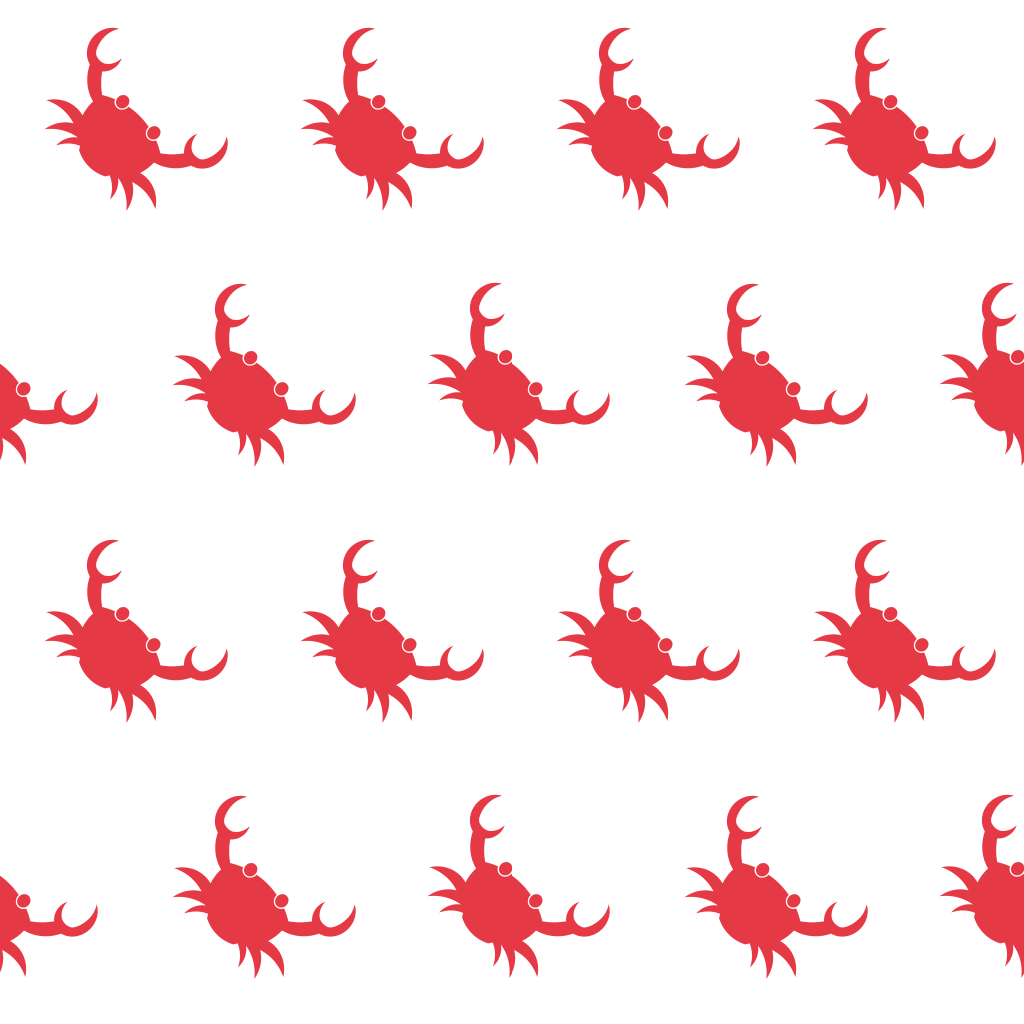
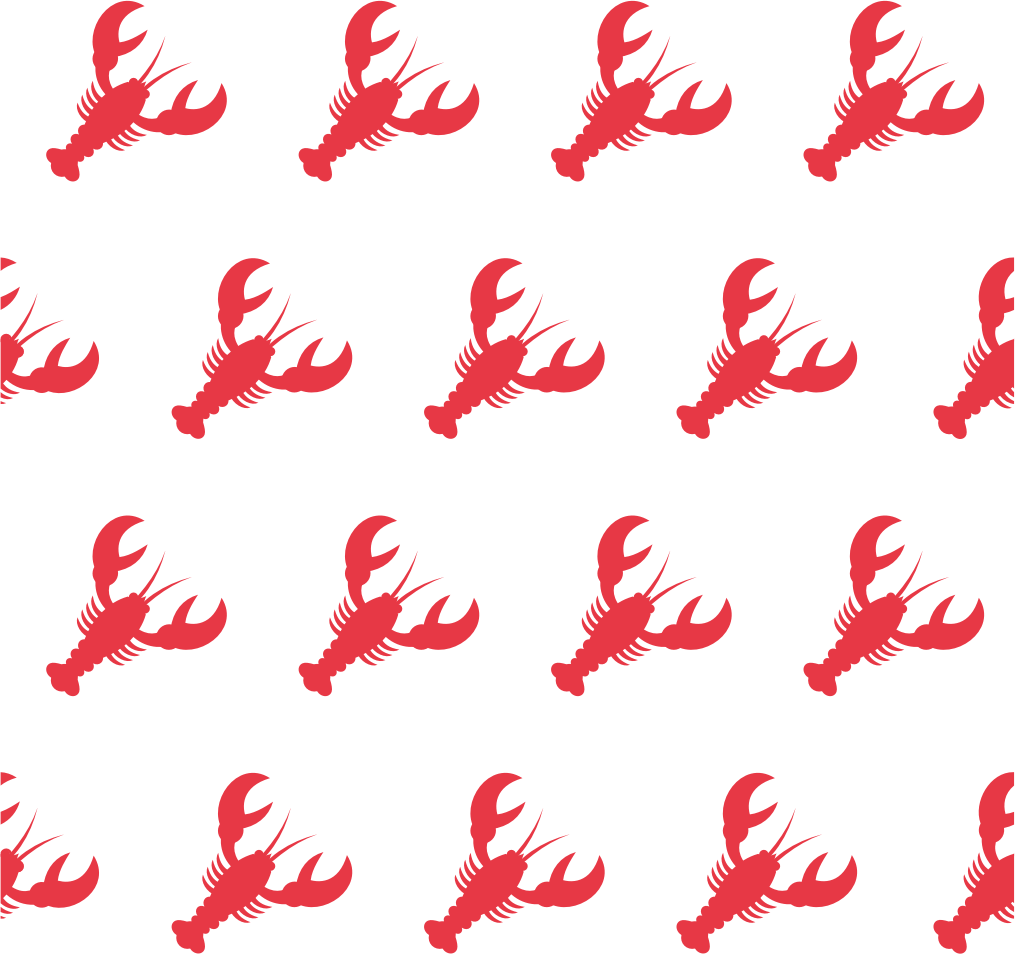
added lobsterer assets

diff --git a/templates/views/welcome.html b/templates/views/welcome.html
@@ -5,7 +5,7 @@
     <div class="col-auto">
         <button type="button" class="h-center btn btn-primary rounded-pill"
                 id="molt-btn" onclick="location.href='/signup'">
-            <strong class="">Join Crabber</strong>
+            <strong class="">Join Lobsterer</strong>
         </button>
     </div>
     <div class="col-auto">
@@ -18,14 +18,14 @@
     </div>
 </div>
 
-<!-- Large crabber logo / header -->
-<img src="https://cdn.crabber.net/img/crabber_header.svg" alt="Large crabber header"
+<!-- Large Lobsterer logo / header -->
+<img src="../../public/img/lobsterer_header.svg" alt="Large Lobsterer header"
      class="header-cover scroll-destination scroll-destination-mobile mb-4">
 
 <!-- Sales pitch -->
 <div class="d-flex flex w-100 justify-content-center scroll-destination">
     <div class="w-75">
-        <h2 class="text-light-darker mt-lg-4 pb-3">Crabber is an open-source micro-blogging platform powered by crabs.</h2>
+        <h2 class="text-light-darker mt-lg-4 pb-3">Lobsterer is an open-source micro-blogging platform powered by crabs.</h2>
 
         <!-- Feature list-->
         <div id="feature-showcase" class="mt-4 row row-cols-1 row-cols-lg-2 scroll-destination-mobile">
@@ -39,7 +39,7 @@
                     <div class="col">
                         <h5>Typo-free</h5>
                         <p class="text-light-darker">
-                            On Crabber you can edit your posts for up to five minutes after they're published. <em>(It's not that hard, Twitter.)</em>
+                            On Lobsterer you can edit your posts for up to five minutes after they're published. <em>(It's not that hard, Twitter.)</em>
                         </p>
                     </div>
                 </div>
@@ -55,7 +55,7 @@
                     <div class="col">
                         <h5>Open API</h5>
                         <p class="text-light-darker">
-                            With an open REST API, developing integrations with Crabber is easy. You don't have to jump through any verification hoops.
+                            With an open REST API, developing integrations with Lobsterer is easy. You don't have to jump through any verification hoops.
                         </p>
                     </div>
                 </div>
@@ -83,7 +83,7 @@
                         <svg class="btn-icon rainbow" width="64" height="64" data-jam="heart-f">
                             <use href="#heart-f"></use>
                         </svg>
-                        <img src="https://cdn.crabber.net/img/rainbow_heart.svg" class="p-0 icon-overlap h-center" height="64" width="64" alt="">
+                        <img src="https://cdn.Lobsterer.net/img/rainbow_heart.svg" class="p-0 icon-overlap h-center" height="64" width="64" alt="">
                     </div>
                     <div class="col">
                         <h5>Friendly</h5>
@@ -136,7 +136,7 @@
                     <p>
                         Most social networks have sterilized their user pages.
                         They give you a profile picture, short bio, and that's
-                        it.  Crabber wants to give people a chance to show off
+                        it.  Lobsterer wants to give people a chance to show off
                         how cool they really are.
                     </p>
                 </div>
@@ -171,7 +171,7 @@
             <!-- Convergent Evolution -->
             <div id="demo-evolution" class="col p-3 order-10 order-lg-8 wikipedia rounded-media">
                 <h1>Carcinisation</h1>
-                <p>From Crabberpedia, the free encyclopedia</p>
+                <p>From Lobstererpedia, the free encyclopedia</p>
                 <p>
                     <b>Carcinisation</b> (or <b>carcinization</b>) is an example of <a href="javascript:void(0);" title="Convergent evolution">convergent evolution</a> in which a <a href="javascript:void(0);" title="Crustacean">crustacean</a> <a href="javascript:void(0);" title="Evolution">evolves</a> into a <a href="javascript:void(0);" title="Crab">crab</a>-like form from a non-crab-like form.
                 </p>
@@ -202,7 +202,7 @@
             <div class="d-block mt-2">
                 <button type="button" class="h-center btn btn-primary rounded-pill w-md-75 mt-lg-2" id="molt-btn"
                         onclick="location.href='/signup'">
-                    <h3 class="text-light m-0 py-2 px-4">Join Crabber</h3>
+                    <h3 class="text-light m-0 py-2 px-4">Join Lobsterer</h3>
                 </button>
             </div>
         </div>

diff --git a/public/css/style.css b/public/css/style.css
@@ -1978,7 +1978,7 @@ table#user-info th, table#user-social-links th {
     margin-left: -50vw;
 
     background-color: var(--dark);
-    background-image: url('https://cdn.crabber.net/img/welcome_tile.png');
+    background-image: url('../img/welcome_tile.png');
     background-size: 40rem;
     background-repeat: repeat;
 
